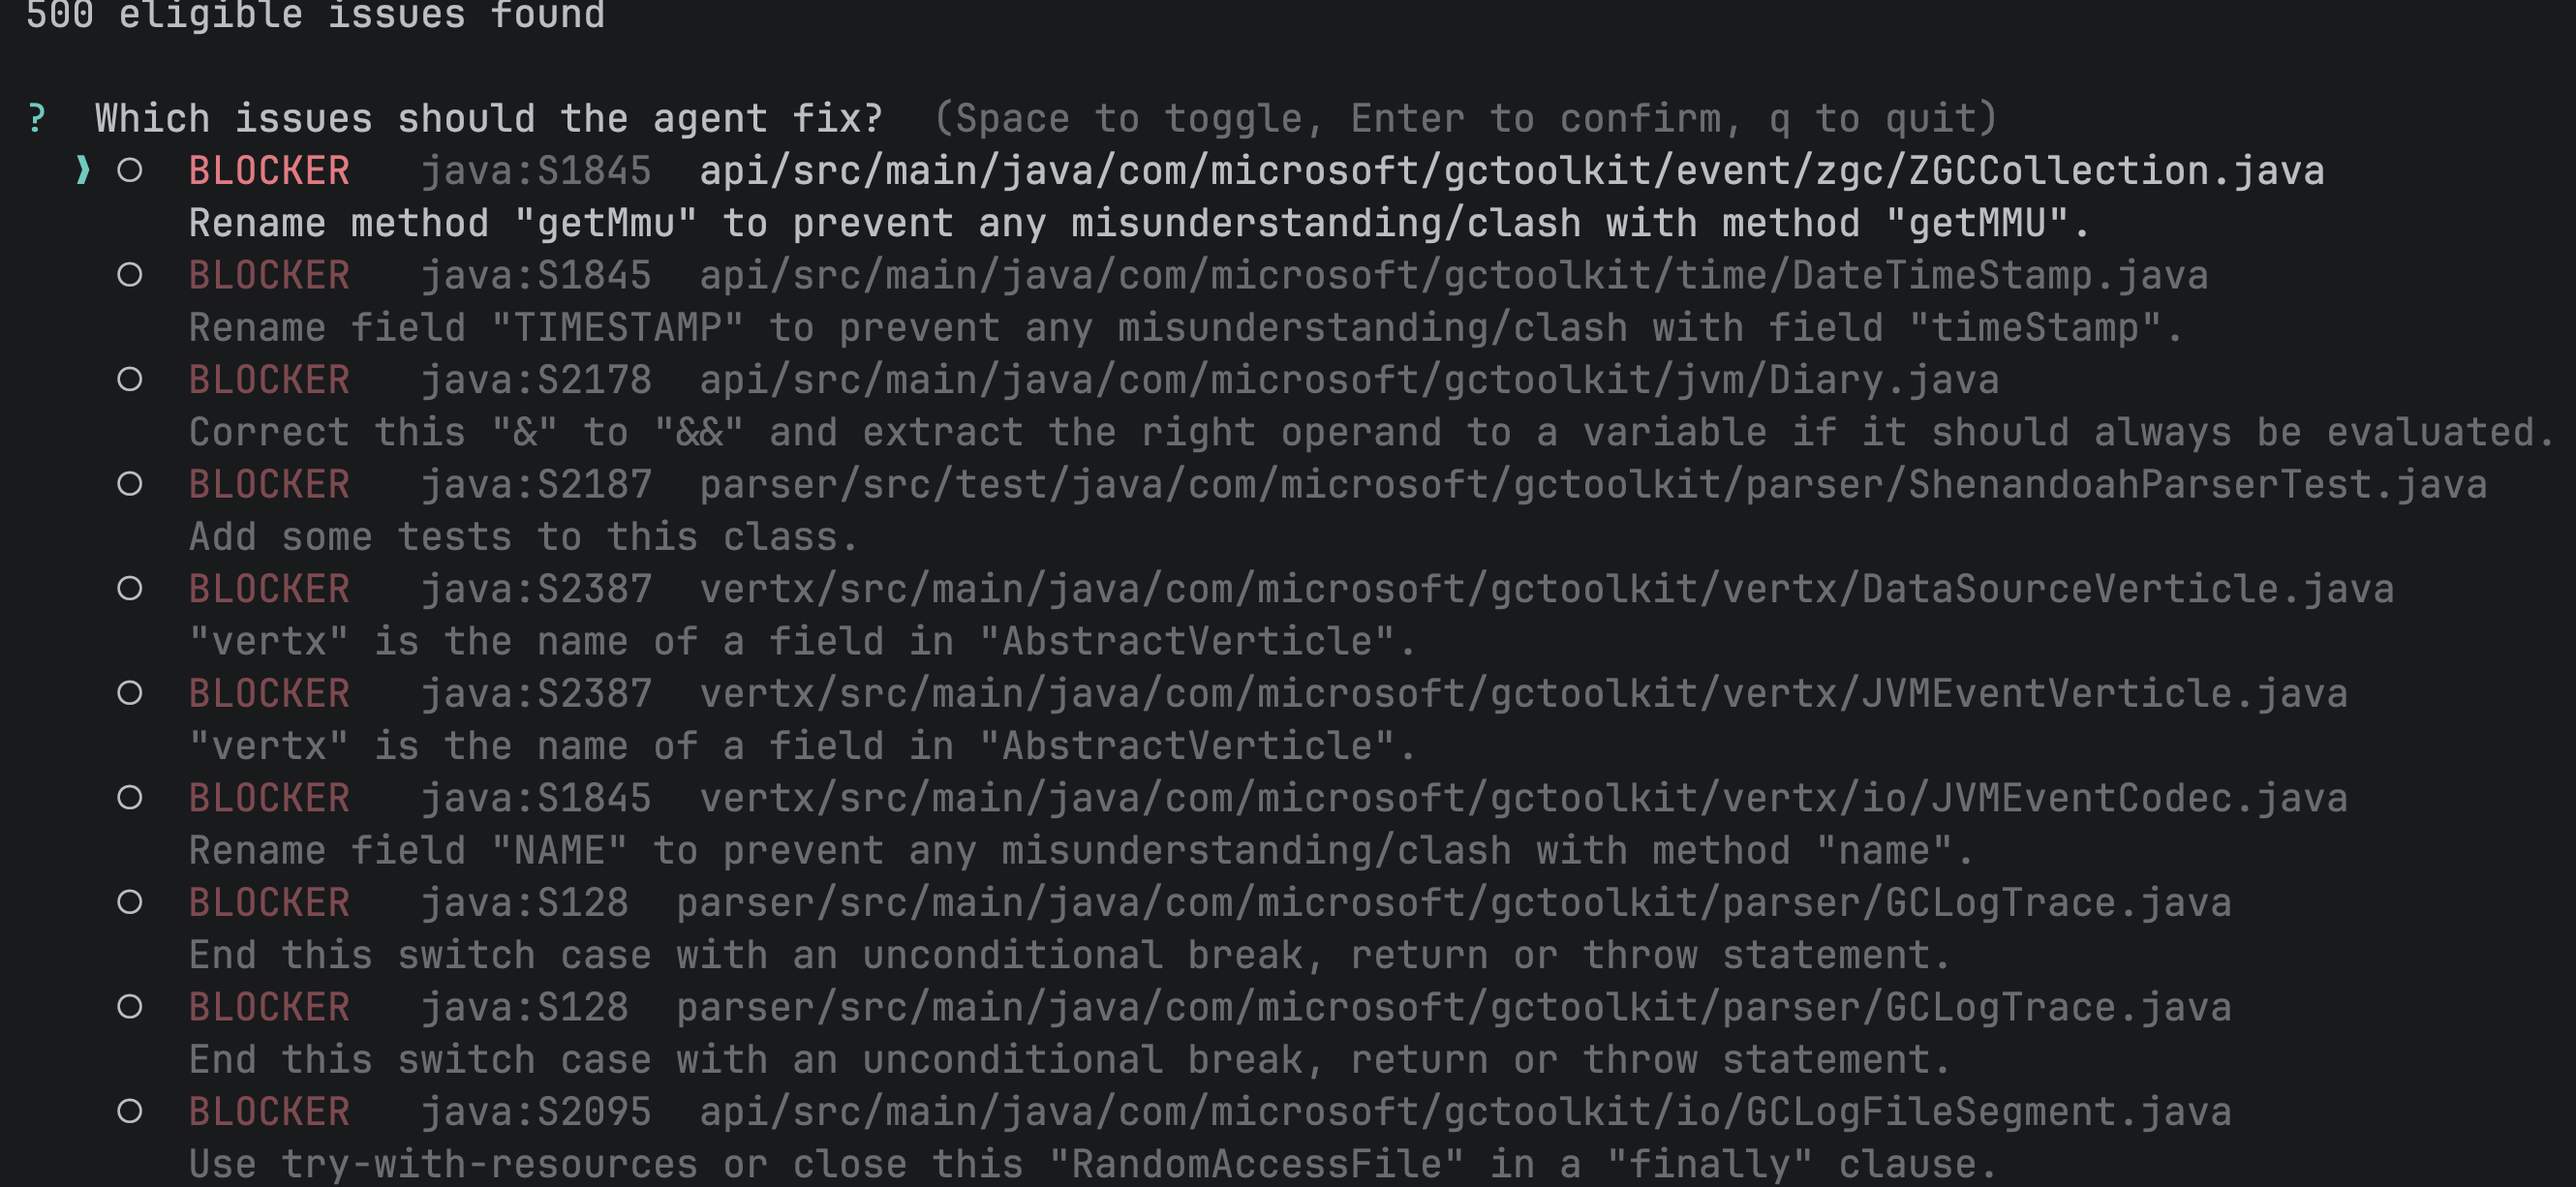
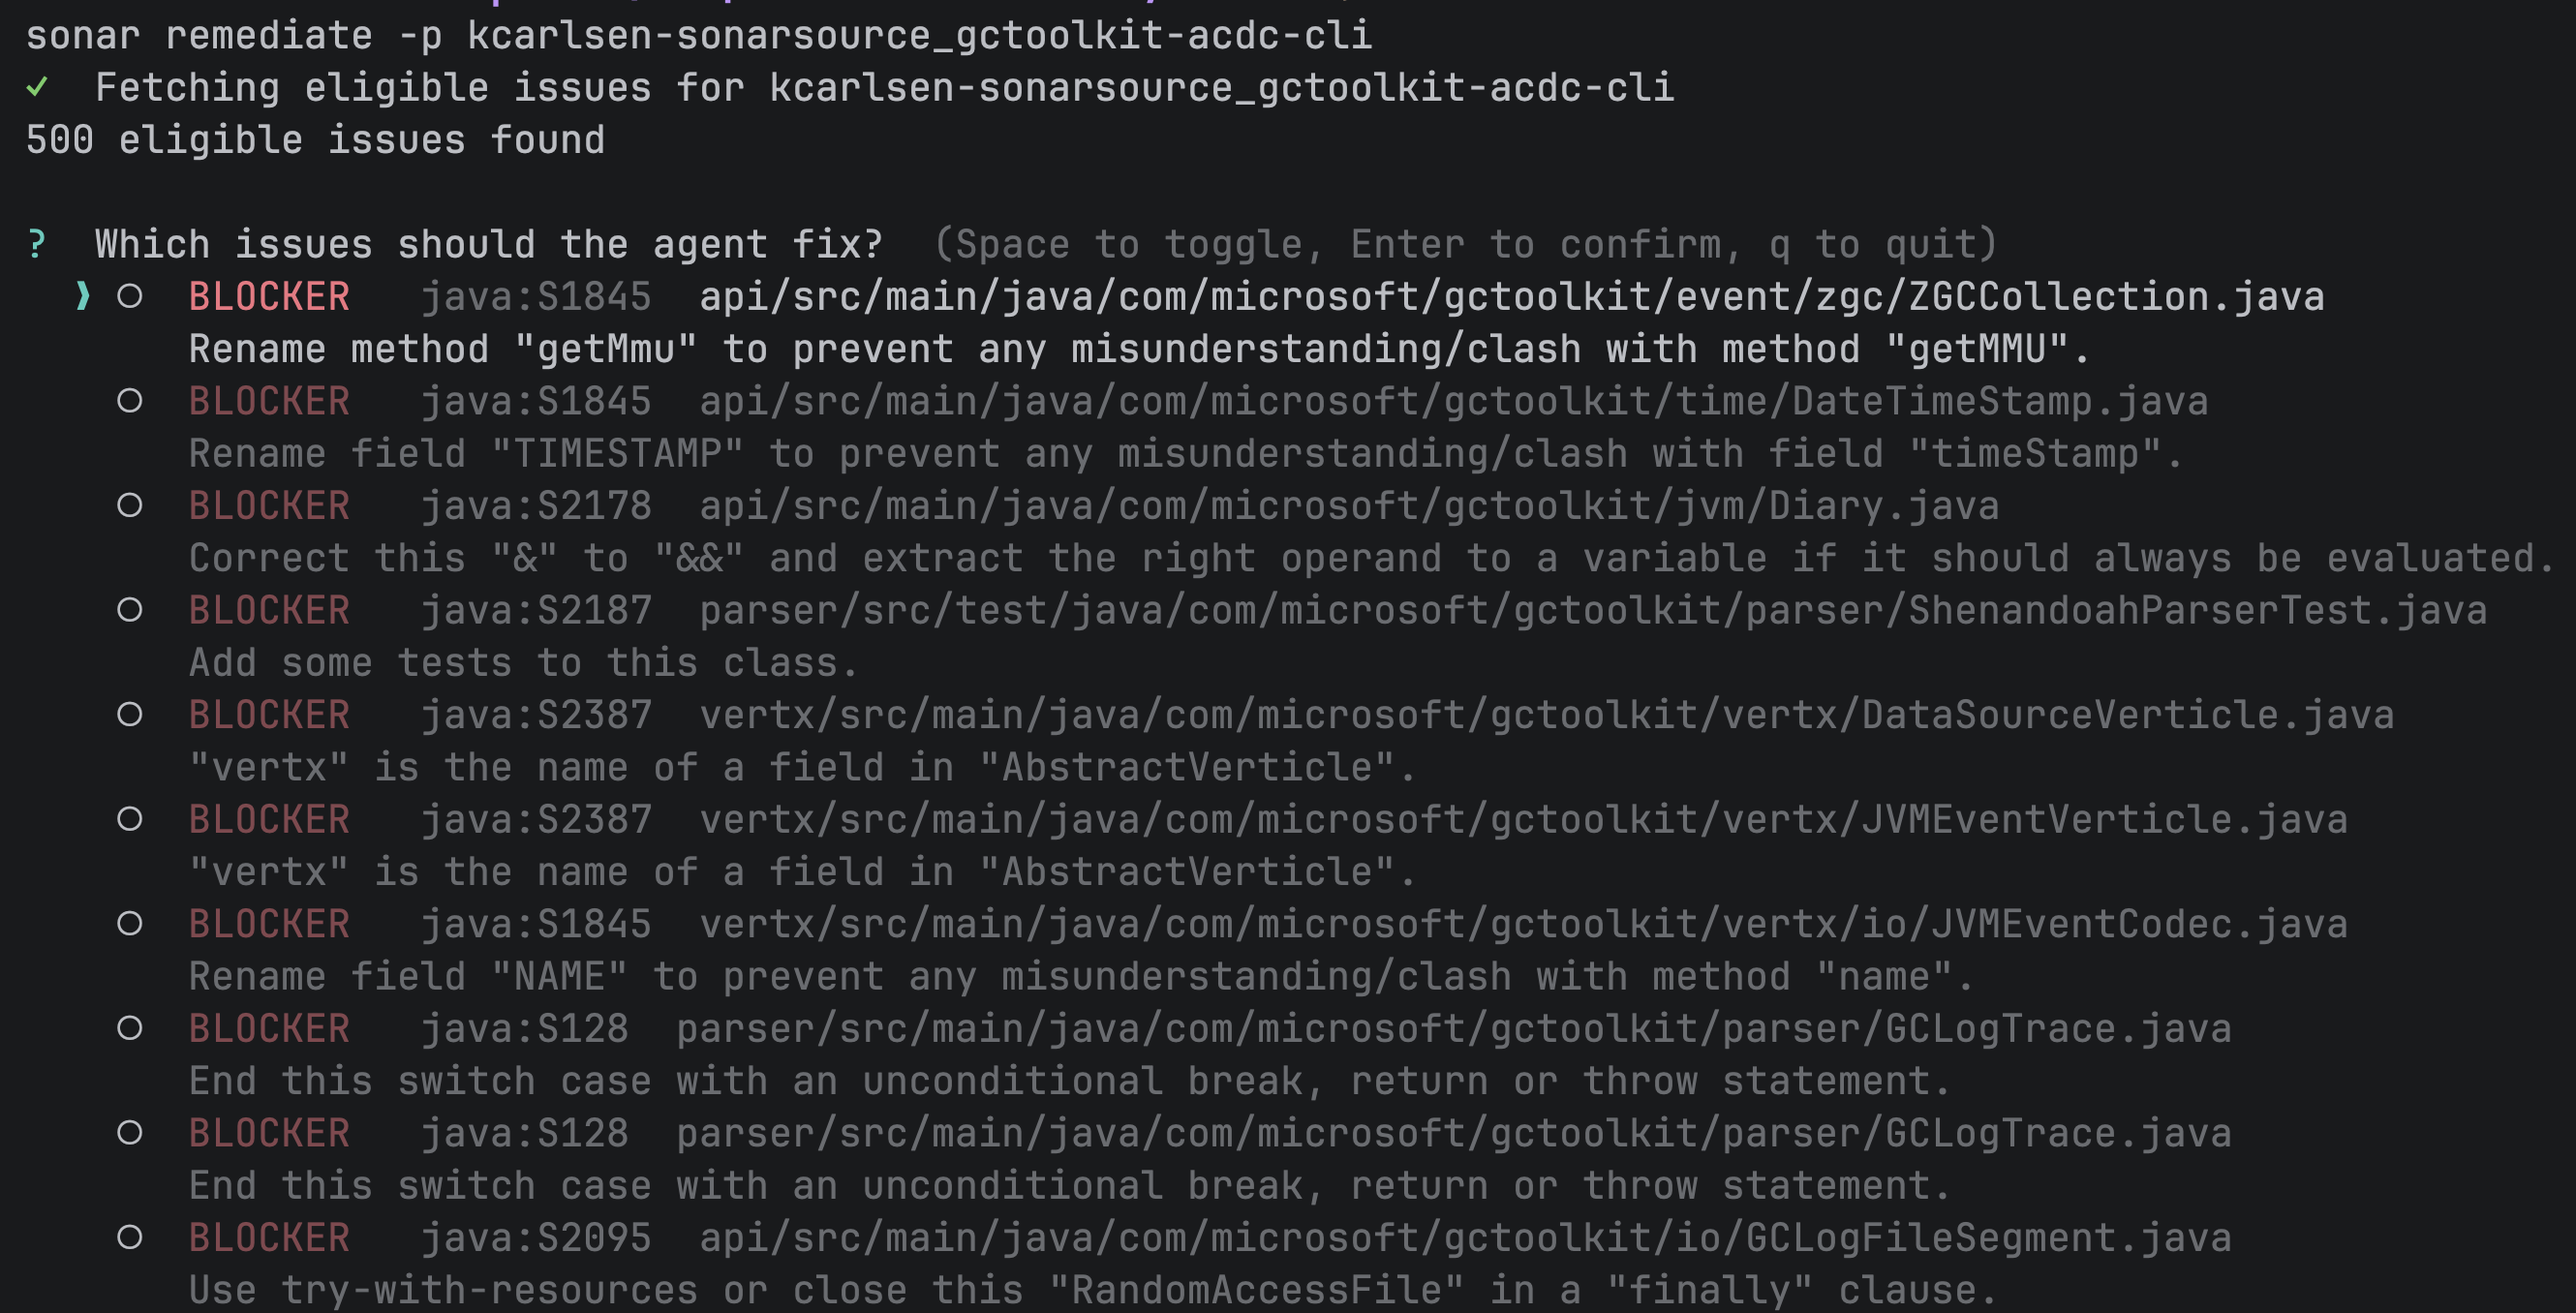
Restore approved blueprint source assets

Changed region(s): [[0.0, 0.0, 0.9985, 0.9918]]

diff --git a/README.md b/README.md
@@ -244,7 +244,7 @@ cat .claude/settings.json | grep -A2 "PreToolUse\|UserPromptSubmit\|PostToolUse"
 Test secrets scanning by pasting a fake credential into the prompt:
 
 ```
-Read this token: <EXAMPLE_AWS_ACCESS_KEY>
+Read this token: AKIA1234567890ABCDEF
 ```
 
 The UserPromptSubmit hook should block the prompt with a message like "Sonar detected secrets in prompt."
